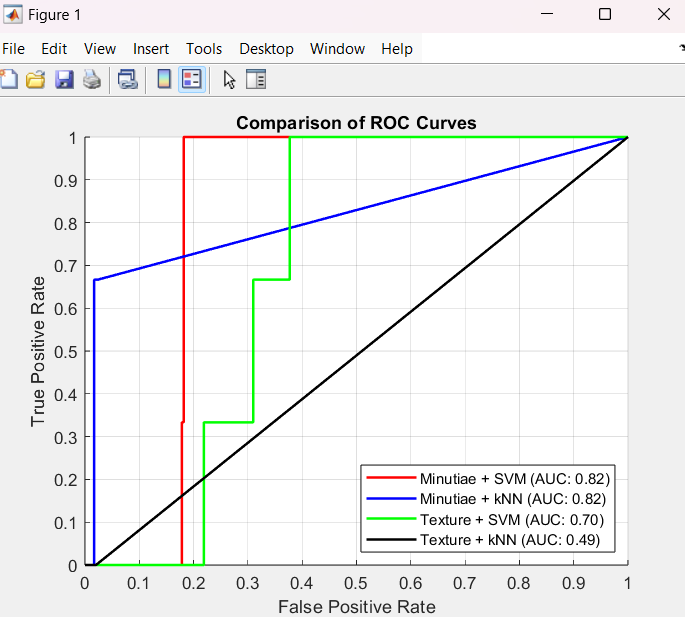
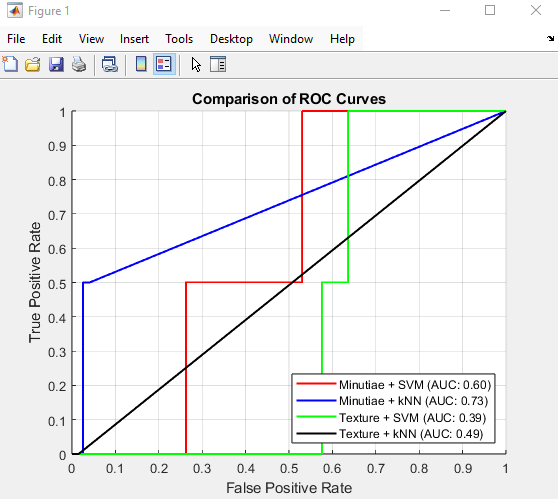
final adjustments

diff --git a/FingerprintRecognition.m b/FingerprintRecognition.m
@@ -55,9 +55,21 @@ for classIdx = 1:numClasses
 end
 
 %% Split Data into Training and Testing Sets
-% Use 70% for training and 30% for testing
-[trainIdx, testIdx] = crossvalind('HoldOut', labels, 0.3);
+% Preallocate indices for training and testing
+trainIdx = false(size(labels));
+testIdx = false(size(labels));
 
+for classIdx = 1:numClasses
+    % Calculate indices for the current class
+    classStartIdx = (classIdx - 1) * numSamplesPerClass + 1;
+    classEndIdx = classIdx * numSamplesPerClass;
+
+    % Select the first 6 images for training and the last 2 for testing
+    trainIdx(classStartIdx:classStartIdx+5) = true;
+    testIdx(classStartIdx+6:classEndIdx) = true;
+end
+
+% Assign data to training and testing sets
 trainLabels = labels(trainIdx);
 testLabels = labels(testIdx);
 
@@ -104,13 +116,13 @@ for methodIdx = 1:length(methods)
                 'Distance', 'euclidean', 'DistanceWeight', 'inverse', 'Standardize', true);
             [predictions, scores] = predict(model, testData);
         end
-        
+
         % Evaluate performance
         [X, Y, T, AUC] = perfcurve(testLabels, scores(:, 2), 1);
 
         % Store results
         results.(methods{methodIdx}).(classifiers{classifierIdx}) = struct(...
-        'X', X, 'Y', Y, 'AUC', AUC);
+            'X', X, 'Y', Y, 'AUC', AUC);
 
         % Get ROC data
         X = results.(methods{methodIdx}).(classifiers{classifierIdx}).X;
@@ -119,7 +131,7 @@ for methodIdx = 1:length(methods)
 
         % Plot ROC curve
         plot(X, Y, 'LineWidth', 1.5, 'Color', colors{(methodIdx - 1) * 2 + classifierIdx});
-        
+
         % Add to legend
         legendEntries{end + 1} = sprintf('%s + %s (AUC: %.2f)', methods{methodIdx}, classifiers{classifierIdx}, AUC);
     end
@@ -133,7 +145,6 @@ legend(legendEntries, 'Location', 'SouthEast');
 
 %% Helper Functions
 function features = extractMinutiaeFeatures(img)
-
     if ~islogical(img)
         binary_image = imbinarize(img); % Only binarize if the image is not binary
     else
@@ -191,7 +202,6 @@ function features = extractMinutiaeFeatures(img)
     % Combine features
     features = [ridge_count, bifurcation_count];
 end
-
 
 function features = extractTextureFeatures(img)
     % Convert image to grayscale if needed
